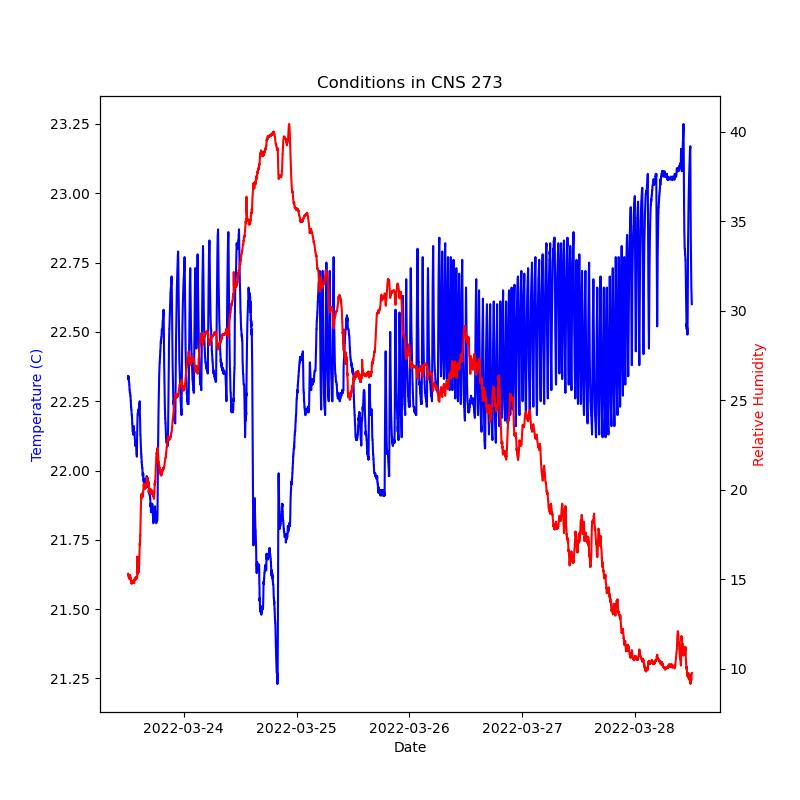
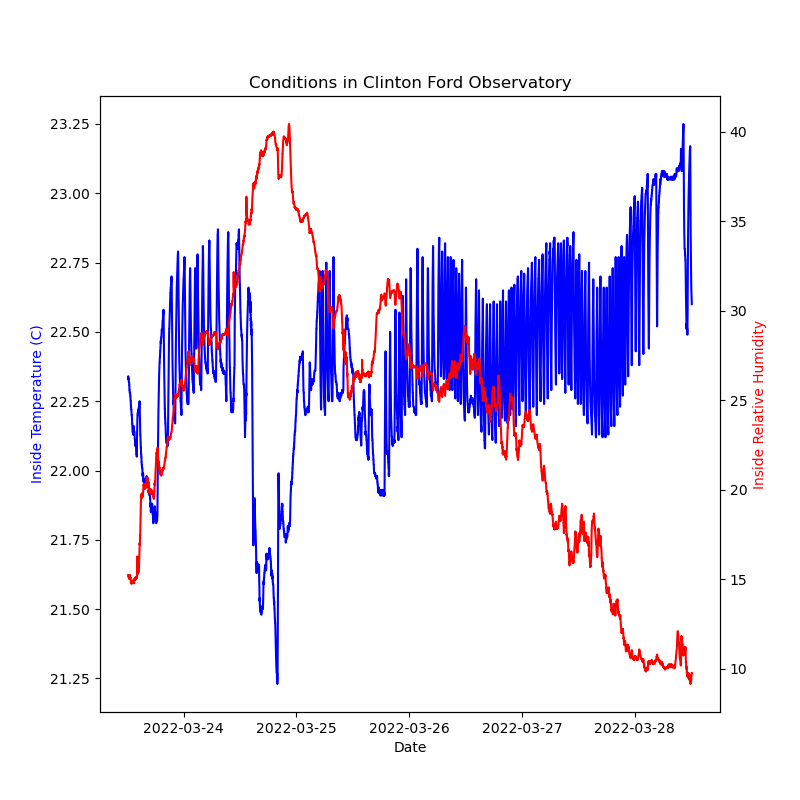
Updated graph and data

diff --git a/graph_script.py b/graph_script.py
@@ -31,9 +31,9 @@ fig,(ax1)=  plt.subplots(figsize=(8,8))
 ax2 = ax1.twinx()
 ax2.plot(TMinds, RHinds, 'r')
 ax1.plot(TMinds, TCinds, 'b')
-ax1.set_title('Conditions in CNS 273')
-plt.setp(ax1, ylabel='Temperature (C)',xlabel='Date')
-plt.setp(ax2, ylabel='Relative Humidity')
+ax1.set_title('Conditions in Clinton Ford Observatory')
+plt.setp(ax1, ylabel='Inside Temperature (C)',xlabel='Date')
+plt.setp(ax2, ylabel='Inside Relative Humidity')
 ax1.yaxis.label.set_color('blue')
 ax2.yaxis.label.set_color('red')
 plt.savefig('Sensor_plot')
